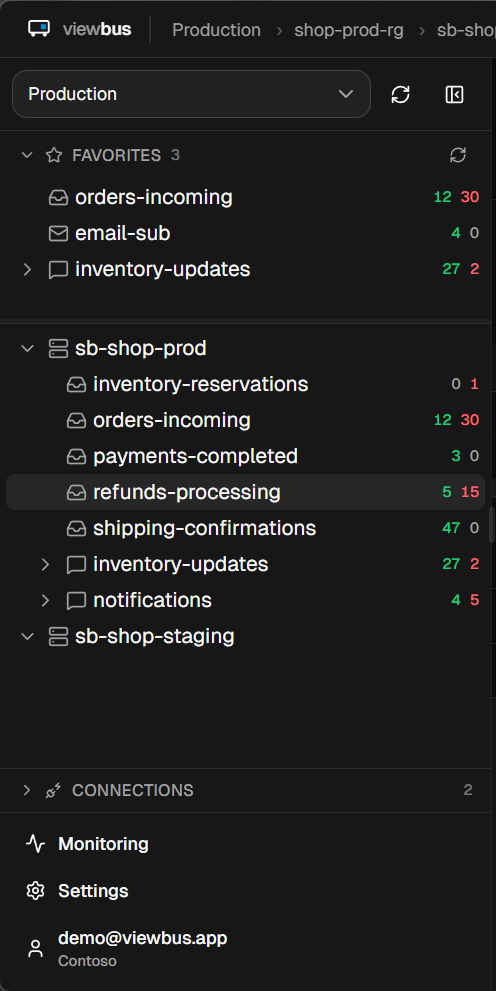
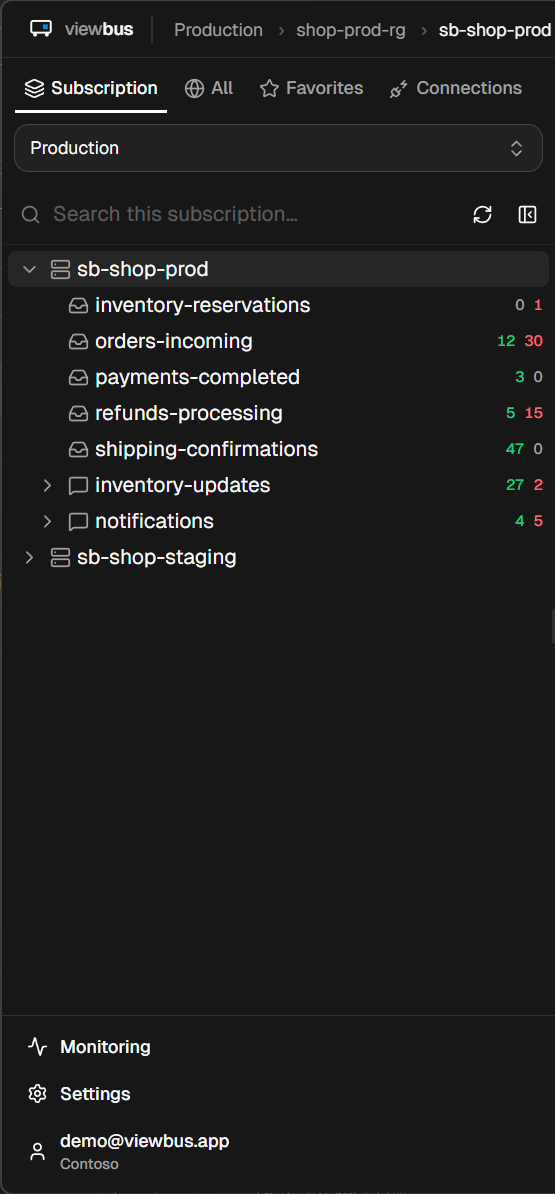
[Patch] Refresh screenshots + 0.7.0 changelog

diff --git a/src/content/changelog/0.7.0.md b/src/content/changelog/0.7.0.md
@@ -1,9 +1,23 @@
 ---
 version: "0.7.0"
 publishedAt: "2026-06-04"
-summary: "TODO: fill in summary."
+summary: "A tabbed sidebar — Subscription, All, Favorites, and Connections — with per-tab search, a cross-subscription All view, and spotlight that now spans every subscription."
 ---
 
 ## 0.7.0 — 2026-06-04
 
-TODO: write changelog entry.
+The release that reorganizes the sidebar around the way you actually navigate.
+
+### Features
+
+- **A tabbed sidebar.** The single scrolling tree is now four focused tabs: **Subscription** (the classic per-subscription tree), **All** (every namespace across every subscription in one view), **Favorites** (just your starred resources), and **Connections** (your connection-string namespaces, renamed from "Manual"). Each tab has its own search box that filters in place — matches stay in their namespace → topic → subscription context.
+- **Search across every subscription.** The new All tab indexes and searches resources across all your subscriptions at once, so you don't have to remember which subscription a queue lives in. Spotlight (Ctrl+I) does the same now — results span every subscription, each tagged with where it lives.
+
+### Improvements
+
+- "As of" freshness hints on the All and Favorites counts, so you can tell how current the numbers are.
+- Friendlier error messages on send, purge, and dead-letter when the broker or network hiccups.
+- Security hardening across the sign-in flow and input handling.
+- A long list of reliability fixes — steadier indexing across tenant and subscription switches, safer theme and hotkey handling, and a native dialog if the app ever fails to start.
+
+All local-first as always. Update via the in-app updater or grab a fresh installer from [viewbus.app](https://viewbus.app/) — your settings, themes, monitored sets, and stored connections carry over untouched.
